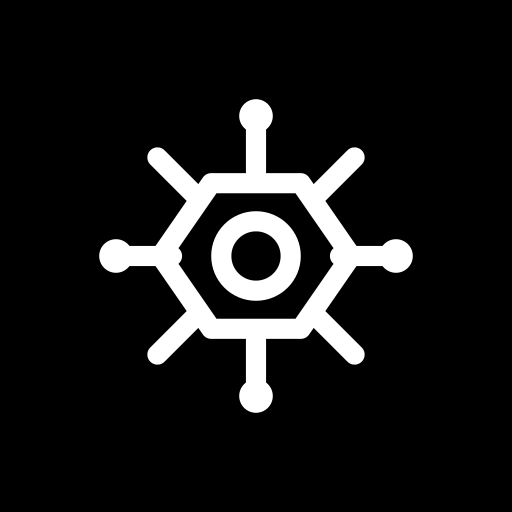
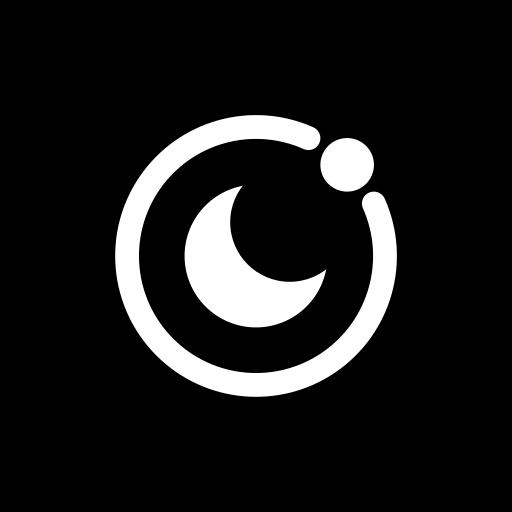
Add files via upload

Changed region(s): [[0.1875, 0.1875, 0.8125, 0.8125]]

diff --git a/index.html b/index.html
@@ -27,7 +27,7 @@
     <div id="sidebarScrim" class="sidebar-scrim" hidden></div>
     <aside id="sidebar" class="sidebar">
       <div class="sidebar-brand">
-        <span class="brand-mark" aria-hidden="true"><svg class="brand-glyph" viewBox="0 0 32 32" aria-hidden="true"><path d="M16 3.5v5M16 23.5v5M3.5 16h5M23.5 16h5M7.2 7.2l3.6 3.6M21.2 21.2l3.6 3.6M24.8 7.2l-3.6 3.6M10.8 21.2l-3.6 3.6"/><path d="m12 9.5 8 0 4.5 6.5-4.5 6.5h-8L7.5 16Z"/><circle cx="16" cy="16" r="3.1"/><circle cx="16" cy="3.5" r="1"/><circle cx="16" cy="28.5" r="1"/><circle cx="3.5" cy="16" r="1"/><circle cx="28.5" cy="16" r="1"/></svg></span>
+        <span class="brand-mark" aria-hidden="true"><svg class="brand-glyph" viewBox="0 0 32 32" aria-hidden="true"><path d="M27.88 10.71A13.0 13.0 0 1 1 21.29 4.12" fill="none" stroke="currentColor" stroke-width="2.4" stroke-linecap="round"/><circle cx="25.19" cy="6.81" r="2.7" fill="currentColor"/><mask id="zn-moon"><rect width="32" height="32" fill="#fff"/><circle cx="19.4" cy="12.6" r="6.0" fill="#000"/></mask><circle cx="16" cy="16" r="7.2" fill="currentColor" mask="url(#zn-moon)"/></svg></span>
         <div class="brand-copy"><strong>ZennNyx</strong></div>
         <button id="sidebarCloseBtn" class="icon-plain sidebar-close" type="button" aria-label="Tutup menu">×</button>
       </div>
@@ -47,7 +47,7 @@
       <header class="topbar">
         <div class="topbar-leading">
           <button id="menuBtn" class="icon-plain menu-toggle" type="button" aria-label="Buka menu">☰</button>
-          <div class="mobile-brand"><span class="brand-mark small" aria-hidden="true"><svg class="brand-glyph" viewBox="0 0 32 32" aria-hidden="true"><path d="M16 3.5v5M16 23.5v5M3.5 16h5M23.5 16h5M7.2 7.2l3.6 3.6M21.2 21.2l3.6 3.6M24.8 7.2l-3.6 3.6M10.8 21.2l-3.6 3.6"/><path d="m12 9.5 8 0 4.5 6.5-4.5 6.5h-8L7.5 16Z"/><circle cx="16" cy="16" r="3.1"/><circle cx="16" cy="3.5" r="1"/><circle cx="16" cy="28.5" r="1"/><circle cx="3.5" cy="16" r="1"/><circle cx="28.5" cy="16" r="1"/></svg></span><strong>ZennNyx AI</strong></div>
+          <div class="mobile-brand"><span class="brand-mark small" aria-hidden="true"><svg class="brand-glyph" viewBox="0 0 32 32" aria-hidden="true"><path d="M27.88 10.71A13.0 13.0 0 1 1 21.29 4.12" fill="none" stroke="currentColor" stroke-width="2.4" stroke-linecap="round"/><circle cx="25.19" cy="6.81" r="2.7" fill="currentColor"/><mask id="zn-moon2"><rect width="32" height="32" fill="#fff"/><circle cx="19.4" cy="12.6" r="6.0" fill="#000"/></mask><circle cx="16" cy="16" r="7.2" fill="currentColor" mask="url(#zn-moon2)"/></svg></span><strong>ZennNyx AI</strong></div>
         </div>
         <div class="model-state" hidden aria-hidden="true">
           <label for="modelSelect">Model aktif</label>
@@ -72,19 +72,23 @@
       </section>
       <template id="welcomeTemplate">
       <div id="welcome" class="welcome">
-        <pre class="ascii-art" aria-hidden="true">         \           o           /
-           \         |         /
-             .-------+-------.
-            /                 \
-           /                   \
-          /         .-.         \
-o--------&lt;         ( @ )         &gt;--------o
-          \         '-'         /
-           \                   /
-            \                 /
-             '-------+-------'
-           /         |         \
-         /           o           \
+        <pre class="ascii-art" aria-hidden="true">
+               :+#%@@@@@%#=
+            .*@@%*=-...-=*- -##*.
+          .*@@+.           .@@@@@
+         :@@*      .        +@@@=
+        .@@-    .*@=            .=.
+        #@*    -@@@             *@#
+       .@@:   :@@@@.            :@@.
+       .@@    -@@@@%.            @@.
+       .@@:   :@@@@@@*-...:=.   :@@.
+        #@*    -@@@@@@@@@@@-    *@#
+        .@@-    .*@@@@@@@*.    -@@.
+         :@@*      .:-:.      *@@:
+          .*@@+.           .+@@*.
+            .*@@%*=-...-=*%@@*.
+               :+#%@@@@@%#+:
+
 
 ##### ##### #   # #   #   #   # #   # #   #
    #  #     ##  # ##  #   ##  #  # #   # # 

diff --git a/style.css b/style.css
@@ -560,3 +560,9 @@ html.is-typing .composer-wrap { bottom: calc(var(--keyboard-inset) + 8px) !impor
 @keyframes ascii-scan { from { clip-path: inset(0 0 100% 0); } to { clip-path: inset(0 0 0 0); } }
 @media (prefers-reduced-motion: reduce) { .ascii-art { animation: none; } }
 .welcome { padding-top: clamp(24px, 6vh, 64px); }
+
+/* logo bulat */
+.brand-mark, .avatar-mark { border-radius: 50%; overflow: hidden; }
+.brand-glyph { stroke: none; }
+
+.sources-popover { scroll-margin-bottom: 200px; }

diff --git a/script.js b/script.js
@@ -446,6 +446,7 @@ function addAssistantActions(row, content, elapsedMs, usedThink, sources=[], web
       pop.appendChild(a);
     });
     row.appendChild(pop);
+    setTimeout(()=>pop.scrollIntoView({block:"nearest",behavior:"smooth"}),30); // supaya daftar tidak tertutup kotak ketik
   });
   source.dataset.sources="1";
   source.disabled=!sourceList.length;

diff --git a/README.md b/README.md
@@ -1,4 +1,4 @@
-# ZennNyx AI v9.17 — Workspace
+# ZennNyx AI v9.18 — Workspace
 
 Static HTML/CSS/JS client with Vercel serverless API. Crisp bordered UI, model picker, full-screen website preview, KaTeX math, real web sources, and a 20-message daily quota (WIB).
 
@@ -21,6 +21,10 @@ Static HTML/CSS/JS client with Vercel serverless API. Crisp bordered UI, model p
 - `PUBLIC_APP_URL` (optional; OpenRouter attribution)
 
 API keys stay on the server.
+
+## v9.18 — what changed (logo bulat: `index.html`, `style.css`, file ikon)
+- **Logo baru yang bulat**: cincin orbit dengan celah, bulan sabit di tengah (Nyx = dewi malam), dan satu titik yang mengorbit (simpul AI). Bukan lingkaran-tiga-bola ala Ubuntu. Dipakai di header (kini dalam lingkaran), semua ikon website (`favicon.svg/.ico/-32.png`, `apple-touch-icon.png`, `icon-192/512.png`), dan art ASCII di layar awal. Semuanya dari satu definisi bentuk yang sama, jadi selalu selaras.
+- Art ASCII digambar ulang dari bentuk logo itu (bayangan lembut dengan karakter `. : - = + * # % @`), tulisan ZENN NYX dan garis `[ A I ]` tetap.
 
 ## v9.17 — what changed (`index.html`, `style.css`, `script.js`, + file ikon baru)
 - **Font**: jawaban/pesan kini **Merriweather** (serif klasik dengan huruf lebar dan tinggi-x besar, paling terbaca di layar HP), ukuran 16.5px, jarak baris 1.85. Teks dark sedikit diredam (#f4f4f4) supaya tidak "menyilaukan" di latar hitam murni. Ganti font cukup di satu tempat: variabel `--font-read` di `style.css` dan tautan Google Fonts di `index.html`.
